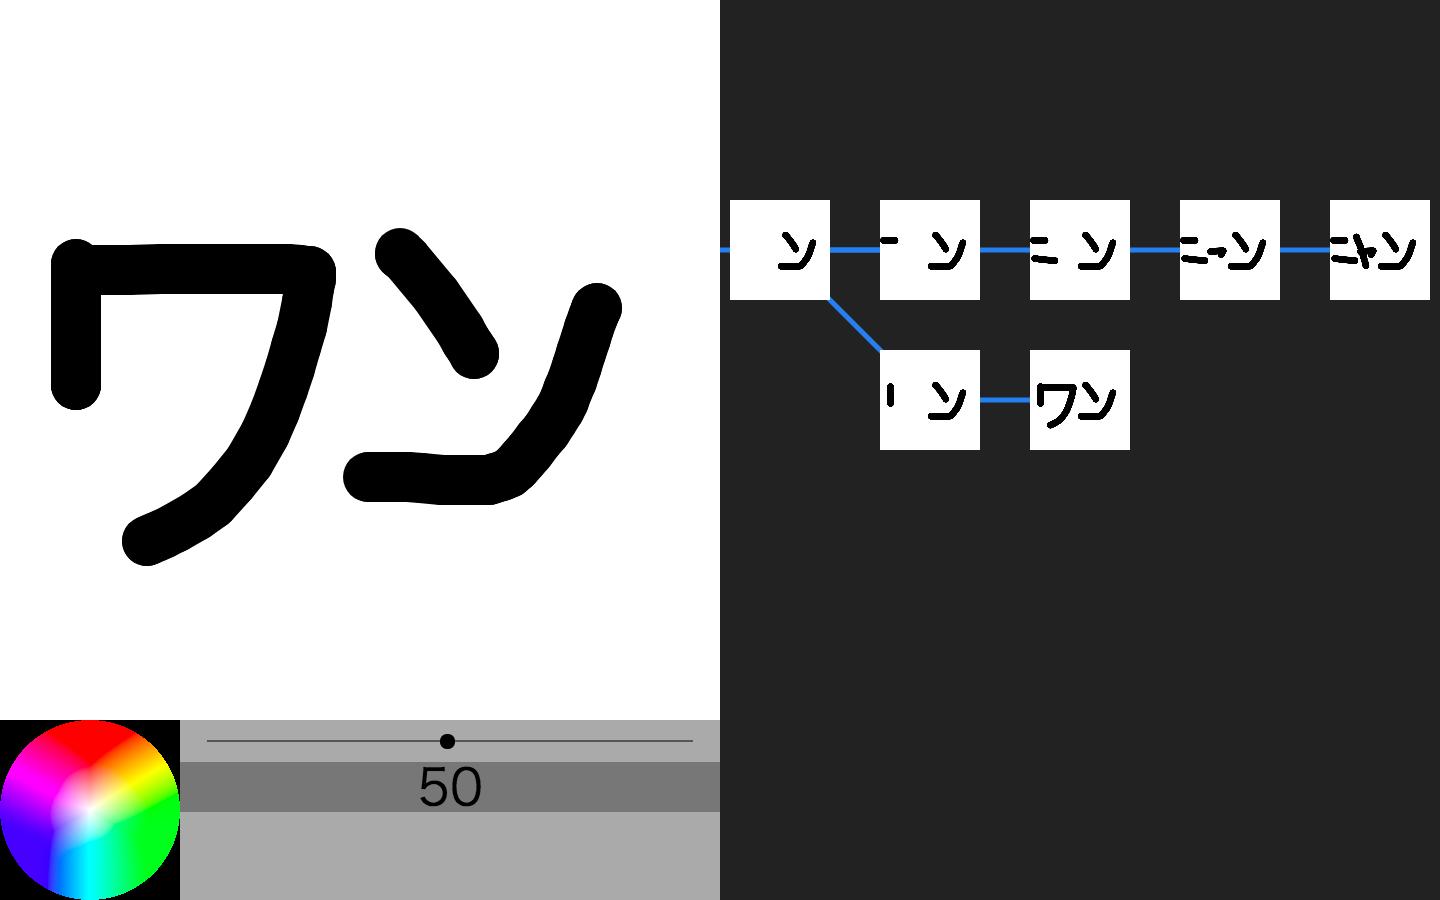
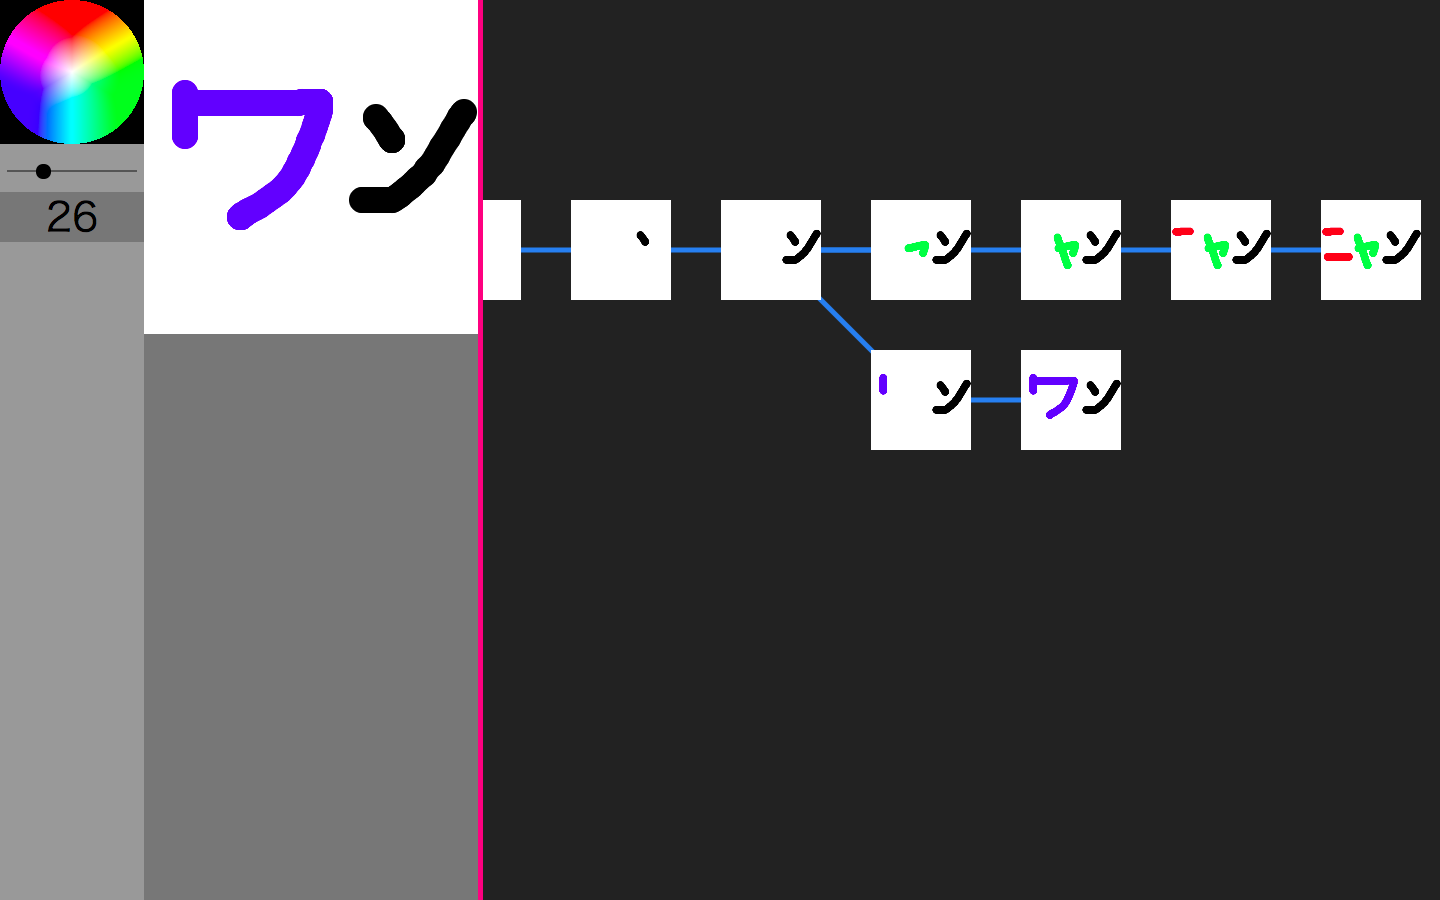
unbreraPaint update

diff --git a/unbreraPaint/main.js b/unbreraPaint/main.js
@@ -1,5 +1,7 @@
 window.addEventListener("load", function () {
+    var drawFrame = document.getElementById("drawFrame");
     var draw = document.getElementById("draw");
+    var unbreraGUIFrontFrame = document.getElementById("unbreraGUIFrontFrame");
     var unbreraGUIFrame = document.getElementById("unbreraGUIFrame");
     var unbreraGUI = document.getElementById("unbreraGUI");
     var drawColor = document.getElementById("drawColor");
@@ -7,15 +9,15 @@ window.addEventListener("load", function () {
     var unbreraGUIContext = unbreraGUI.getContext("2d");
     var drawColorGl = drawColor.getContext("webgl");
     var drawWidth = draw.clientWidth;
-    var drawHeight = draw.clientHeight;
+    var drawHeight = draw.clientWidth;
     draw.width = drawWidth;
     draw.height = drawHeight;
-    var unbreraGUIWidth = unbreraGUIFrame.clientWidth * 10;
+    var unbreraGUIWidth = unbreraGUIFrame.clientWidth * 30;
     var unbreraGUIHeight = unbreraGUIFrame.clientHeight;
     unbreraGUI.width = unbreraGUIWidth;
     unbreraGUI.height = unbreraGUIHeight;
     var drawColorWidth = drawColor.clientWidth;
-    var drawColorHeight = drawColor.clientHeight;
+    var drawColorHeight = drawColor.clientWidth;
     drawColor.width = drawColorWidth;
     drawColor.height = drawColorHeight;
     drawContext.fillStyle = "#fff";
@@ -30,14 +32,14 @@ window.addEventListener("load", function () {
     var strokeColor = "rgb(0,0,0)";
     draw.addEventListener("mousedown", function (e) {
         drawFlag = true;
-        prevX = e.clientX;
-        prevY = e.clientY;
+        prevX = e.layerX;
+        prevY = e.layerY;
     });
     var undoStackDelta = [];
     draw.addEventListener("mousemove", function (e) {
         if (!drawFlag) return;
-        var x = e.clientX;
-        var y = e.clientY;
+        var x = e.layerX;
+        var y = e.layerY;
         drawContext.strokeStyle = strokeColor;
         drawContext.lineWidth = strokeWidth;
         drawContext.beginPath();
@@ -48,17 +50,16 @@ window.addEventListener("load", function () {
         prevX = x;
         prevY = y;
         undoStackDelta.push({
-            x: e.clientX,
-            y: e.clientY,
+            x: e.layerX,
+            y: e.layerY,
             color: strokeColor,
             width: strokeWidth,
         });
     });
-
-    document.addEventListener("mouseup", function (e) {        
+    document.addEventListener("mouseup", function (e) {
         if (drawFlag) {
             drawFlag = false;
-            var state = draw.toDataURL("image/png", 1.0);
+            var state = draw.toDataURL("image/webp", 1.0);
             execute(undoStackDelta, state);
             undoStackDelta = [];
         }
@@ -75,7 +76,7 @@ window.addEventListener("load", function () {
     drawColor.addEventListener("mousedown", function (e) {
         render();
         var u8 = new Uint8Array(4);
-        drawColorGl.readPixels(e.layerX, this.clientHeight - e.layerY, 1, 1, drawColorGl.RGBA, drawColorGl.UNSIGNED_BYTE, u8);
+        drawColorGl.readPixels(e.layerX, this.clientWidth - e.layerY, 1, 1, drawColorGl.RGBA, drawColorGl.UNSIGNED_BYTE, u8);
         strokeColor = "rgb(" + u8[0] + "," + u8[1] + "," + u8[2] + ")";
     });
     var drawColorVertexShader = `
@@ -175,13 +176,13 @@ window.addEventListener("load", function () {
     }
     window.addEventListener("resize", function (e) {
         drawWidth = draw.clientWidth;
-        drawHeight = draw.clientHeight;
+        drawHeight = draw.clientWidth;
         draw.width = drawWidth;
         draw.height = drawHeight;
         drawContext.lineJoin = "round";
         drawContext.lineCap = "round";
         drawColorWidth = drawColor.clientWidth;
-        drawColorHeight = drawColor.clientHeight;
+        drawColorHeight = drawColor.clientWidth;
         drawColor.width = drawColorWidth;
         drawColor.height = drawColorHeight;
         drawColorGl.viewport(0, 0, drawColorWidth, drawColorHeight);
@@ -192,9 +193,66 @@ window.addEventListener("load", function () {
         }
         img.src = lastUndoStack().state;
     });
+
+    var unbreraGUISizeChange=false;
+    unbreraGUIFrontFrame.addEventListener("mousedown", function (e) {
+        unbreraGUISizeChange = true;
+    });
+    unbreraGUIFrame.addEventListener("mousemove", function (e) {
+        if (unbreraGUISizeChange) {
+            let x = Math.floor(e.clientX - unbreraGUIFrame.getBoundingClientRect().left);
+            unbreraGUIFrame.style.width = Math.floor(unbreraGUIFrame.clientWidth - x) + "px";
+            drawFrame.style.width = Math.floor(drawFrame.clientWidth + x) + "px";
+            drawWidth = draw.clientWidth;
+            drawHeight = draw.clientWidth;
+            draw.width = drawWidth;
+            draw.height = drawHeight;
+            drawContext.lineJoin = "round";
+            drawContext.lineCap = "round";
+            var img = new Image();
+            img.onload = function () {
+                drawContext.drawImage(img, 0, 0, drawWidth, drawHeight);
+            }
+            img.src = lastUndoStack().state;
+        }
+    });    
+    drawFrame.addEventListener("mousemove", function (e) {        
+        if (unbreraGUISizeChange) {            
+            let x = Math.floor(e.clientX - drawFrame.getBoundingClientRect().left);            
+            unbreraGUIFrame.style.width = Math.floor(unbreraGUIFrame.clientWidth + (drawFrame.clientWidth - x)) + "px";                                                
+            drawFrame.style.width = Math.floor(x) + "px";            
+            drawWidth = draw.clientWidth;
+            drawHeight = draw.clientWidth;
+            draw.width = drawWidth;
+            draw.height = drawHeight;
+            drawContext.lineJoin = "round";
+            drawContext.lineCap = "round";
+            var img = new Image();
+            img.onload = function () {
+                drawContext.drawImage(img, 0, 0, drawWidth, drawHeight);
+            }
+            img.src = lastUndoStack().state;
+        }
+    });
+    
+    unbreraGUIFrontFrame.addEventListener("mouseup", function (e) {
+        if (unbreraGUISizeChange) {
+            unbreraGUISizeChange = false;
+        }
+    });
+    unbreraGUIFrame.addEventListener("mouseup", function (e) {
+        if (unbreraGUISizeChange) {
+            unbreraGUISizeChange = false;
+        }
+    });
+    drawFrame.addEventListener("mouseup", function (e) {
+        if (unbreraGUISizeChange) {
+            unbreraGUISizeChange = false;
+        }
+    });
     var undoStack;
     var redoStack;
-    var defalutDrawState = draw.toDataURL("image/png", 1.0);
+    var defalutDrawState = draw.toDataURL("image/webp", 1.0);
     var lastUnbraPoint;
     var lastUnbraNum;
     var unbraId;
@@ -302,7 +360,7 @@ window.addEventListener("load", function () {
         }
         let lastNumber = currentId.slice().reverse().find(function (e, i, a) {
             return e > 0;
-        });        
+        });
         let nextBranchPointNum = currentId.lastIndexOf(lastNumber) - 1;
         let nextBranchPoint = branchPointStack[nextBranchPointNum];
         let targetBranchId = lastNumber - 1;
@@ -310,12 +368,12 @@ window.addEventListener("load", function () {
         let j = undoStack.length - (nextBranchPointIndex + 1);
         for (let i = 0; i < j; i++) {
             undo();
-        }        
-        (function (stack) {            
+        }
+        (function (stack) {
             let j = stack.length;
             for (let i = 0; i < j; i++) {
-            var deltaStack=stack[j-1-i];
-            undoStack.push(deltaStack);                
+                var deltaStack = stack[j - 1 - i];
+                undoStack.push(deltaStack);
             }
             if (stack[0].isBranchPoint) {
                 arguments.callee(stack[0].branchStack[stack[0].branchStack.length - 1].slice());
@@ -331,9 +389,9 @@ window.addEventListener("load", function () {
             return e.isBranchPoint;
         }));
         lastUnbraPoint = undoStack[lastUnbraNum];
-        unbraId = lastUndoStack().branchPointId;        
+        unbraId = lastUndoStack().branchPointId;
     };
-    function rebra() {        
+    function rebra() {
         let branchPointStack = undoStack.slice().filter(function (e, i, a) {
             e.indexNum = i;
             return e.isBranchPoint;
@@ -354,11 +412,11 @@ window.addEventListener("load", function () {
         for (let i = 0; i < j; i++) {
             undo();
         }
-        (function (stack) {            
+        (function (stack) {
             let j = stack.length;
             for (let i = 0; i < j; i++) {
-            var deltaStack=stack[j-1-i];
-            undoStack.push(deltaStack);                
+                var deltaStack = stack[j - 1 - i];
+                undoStack.push(deltaStack);
             }
             if (stack[0].isBranchPoint) {
                 arguments.callee(stack[0].branchStack[0].slice());
@@ -398,21 +456,21 @@ window.addEventListener("load", function () {
                     unbreraGUIContext.lineWidth = 5;
                     unbreraGUIContext.beginPath();
                     unbreraGUIContext.moveTo(x + i * 150 + 50, y + 50);
-                    unbreraGUIContext.lineTo(x + (i+1) * 150 + 50, y + 150 * j + 50);
+                    unbreraGUIContext.lineTo(x + (i + 1) * 150 + 50, y + 150 * j + 50);
                     unbreraGUIContext.stroke();
-                let img = new Image();
+                    let img = new Image();
                     img.addEventListener("load", function () {
                         unbreraGUIContext.drawImage(img, x + i * 150, y, 100, 100)
                     });
-                    img.src = stack[i].state;                                        
-                    createUnbreraGUI(stack[i].branchStack[j].slice().reverse(), x + (i+1) * 150, y + 150 * j, i + j);
+                    img.src = stack[i].state;
+                    createUnbreraGUI(stack[i].branchStack[j].slice().reverse(), x + (i + 1) * 150, y + 150 * j, i + j);
                 }
                 break;
             }
         }
     }
     function undoRedoKeydown(e) {
-        e = window.event || e;        
+        e = window.event || e;
         if (e.key === 'z' && (e.ctrlKey || e.metaKey) && e.shiftKey) {
             redo();
         } else if (e.key === 'z' && (e.ctrlKey || e.metaKey)) {
@@ -420,7 +478,7 @@ window.addEventListener("load", function () {
         }
     }
     function unbraRebraKeydown(e) {
-        e = window.event || e;        
+        e = window.event || e;
         if (e.key === '¸' && e.altKey && e.shiftKey) {
             rebra();
         } else if (e.key === 'Ω' && e.altKey) {

diff --git a/unbreraPaint/index.html b/unbreraPaint/index.html
@@ -19,63 +19,26 @@
             visibility: hidden;
         }
 
-        #drawFrame {
-            padding: 0;
-            margin: 0;
-            width: 50vw;
-            height: 100vh;
-            float: left;
-            font-size: 0;
-        }
-
-        #draw {
-            padding: 0;
-            margin: 0;
-            width: 50vw;
-            height: 50vw;
-        }
-
+   
         #drawProperty {
+            background-color:#999;
             margin: 0;
             padding: 0;
-            width: 50vw;
-            height: calc( 100vh - 50vw);
+            width: 10vw;
+            height: 100vh;
+            float:left;
         }
 
         #drawColor {
             margin: 0;
             padding: 0;
-            width: calc( 100vh - 50vw);
-            height: 100%;
-            float: left;
-        }
-
-        #drawPropertyRight {
-            margin: 0;
-            padding: 0;
-            width: calc( 100% - (100vh - 50vw));
-            height: calc( 100vh - 50vw);
-            float: left;
-            text-align: center;
-            background-color:#aaa;
-        }
+            width: 10vw;
+            height: 10vw;            
+        }        
 
         #drawThickness {
             margin: 20px 0;
             padding: 0;
-            width: 100%;
-        }
-
-        #unbreraGUIFrame {
-            padding: 0;
-            margin: 0;
-            width: 50vw;
-            height: 100vh;
-            float: left;
-            overflow:auto;
-        }
-
-        #drawThickness {
             -webkit-appearance: none;
             -moz-appearance: none;
             background-color: #555;
@@ -103,26 +66,57 @@
         #drawThicknessPreview {
             margin: 0;
             padding: 0;
-            width: 100%;            
+            width: 100%;
             background: #777;
-            font-size: 50px;
-            text-align: center;            
+            font-size: 40px;
+            text-align: center;
             line-height: 50px;
+        }
+
+        #drawFrame {
+            background-color:#777;
+            padding: 0;
+            margin: 0;
+            width: 100vh;
+            height: 100vh;
+            float: left;
+            font-size: 0;
+        }
+
+        #draw {
+            padding: 0;
+            margin: 0;
+            width: 100%;            
+        }
+
+        #unbreraGUIFrame {
+            padding: 0;
+            margin: 0;
+            width: calc(100vw - 10vw - 100vh - 5px);
+            height: 100vh;
+            float: left;
+            overflow: auto;
+        }
+
+        .frame {
+            width: 5px;
+            height: 100vh;
+            float: left;
+            background-color: #e38;
         }
     </style>
 </head>
 
 <body>
+    <div id="drawProperty">
+        <canvas id="drawColor"></canvas>
+        <input id="drawThickness" type="range" min="1" max="100" step="1.0" value="50">
+        <p id="drawThicknessPreview">50</p>
+    </div>
     <div id="drawFrame">
         <canvas id="draw"></canvas>
-        <div id="drawProperty">
-            <canvas id="drawColor"></canvas>
-            <div id="drawPropertyRight">
-                <input id="drawThickness" type="range" min="1" max="100" step="1.0" value="50">
-                <p id="drawThicknessPreview">50</p>
-            </div>
-        </div>
     </div>
+    <div class="frame" id="unbreraGUIFrontFrame"></div>
     <div id="unbreraGUIFrame">
         <canvas id="unbreraGUI"></canvas>
     </div>
